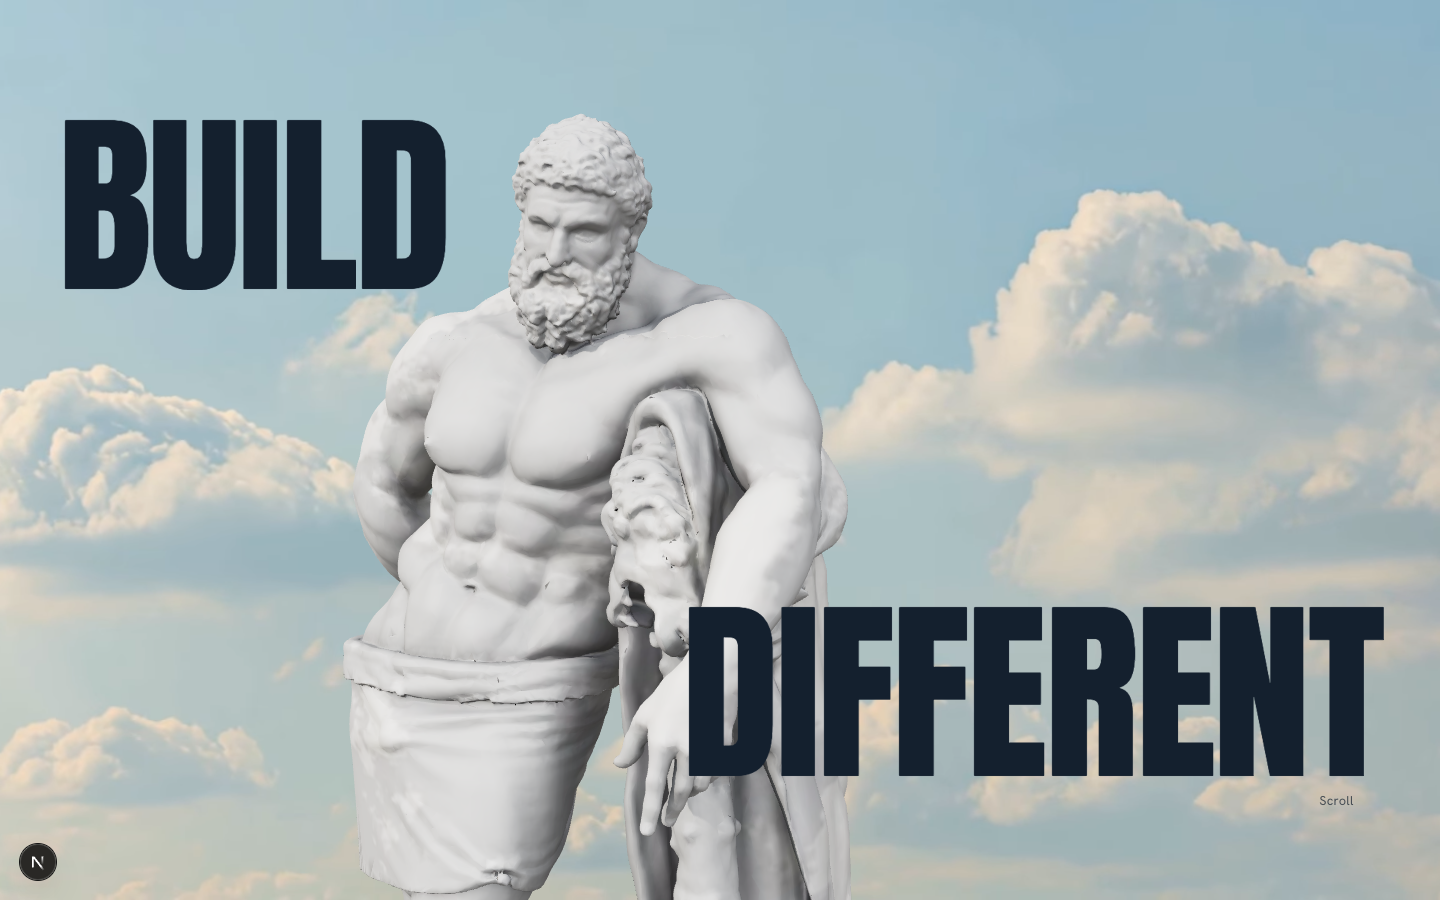
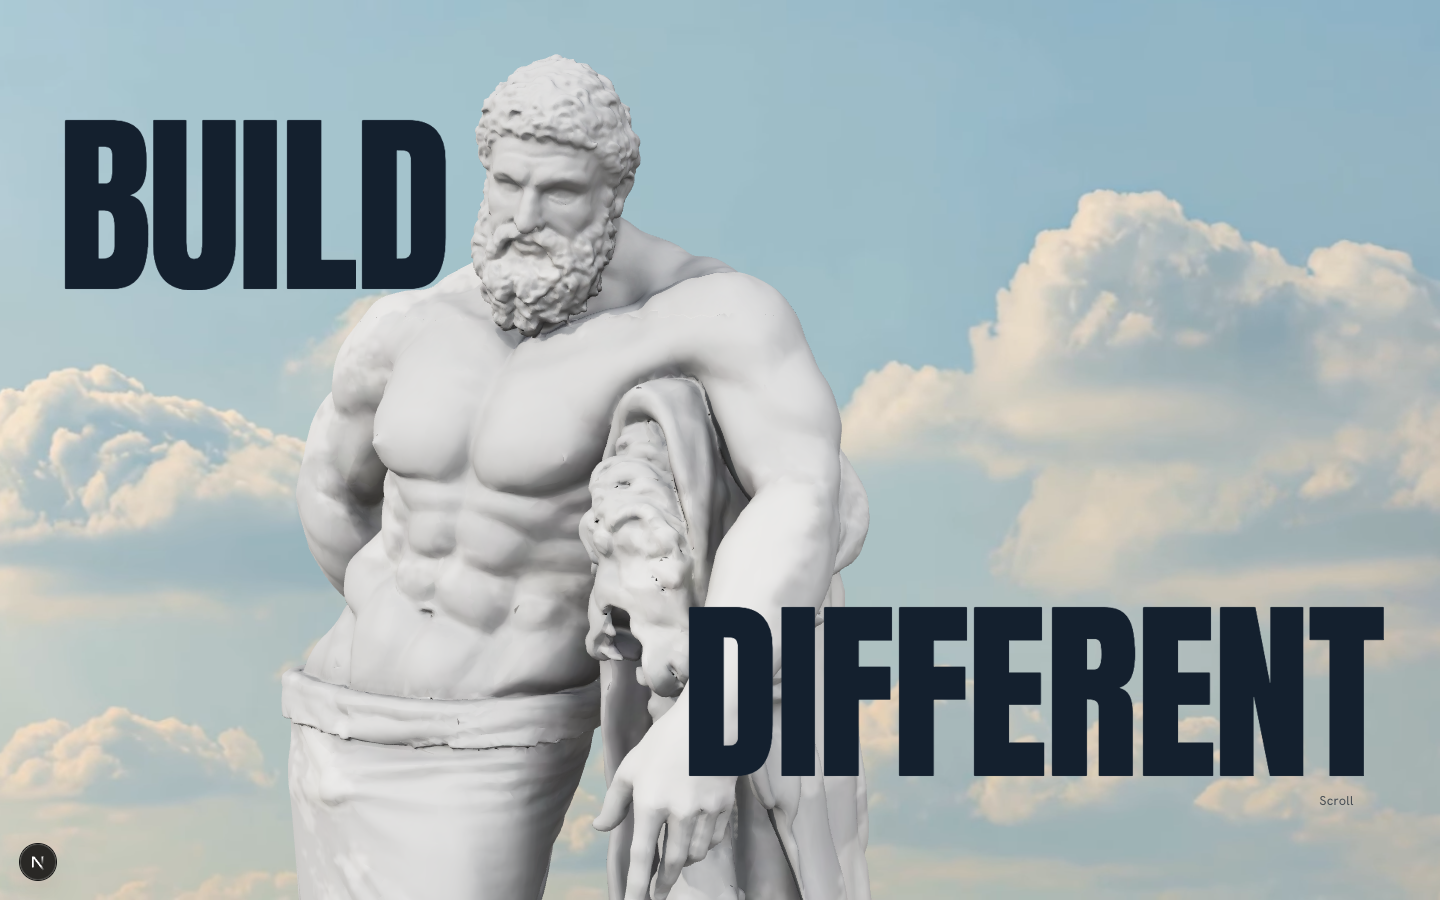
Opening figure 1.2x larger
Claude-Session: https://claude.ai/code/session_01NAdPXLUXCGhh82qBsMYyAh

Changed region(s): [[0.1875, 0.0622, 0.625, 1.0]]

diff --git a/src/hero/CameraRig.tsx b/src/hero/CameraRig.tsx
@@ -15,7 +15,7 @@ const HEAD = STATUE.head;
 // opening frame: head and the upper half of the torso, three quarter
 // +0.11 on x on both camera and target slides the figure about 100px left at 1440 wide
 const CLOSE = {
-  pos: new THREE.Vector3(HEAD.x + 0.3 + 1.0 * 1.11, HEAD.y - 0.26 + 0.12 * 1.11, HEAD.z + 1.55 * 1.11),
+  pos: new THREE.Vector3(HEAD.x + 0.3 + 1.0 * 0.925, HEAD.y - 0.26 + 0.12 * 0.925, HEAD.z + 1.55 * 0.925),
   look: new THREE.Vector3(HEAD.x + 0.3, HEAD.y - 0.26, HEAD.z),
   fov: 30,
 };
